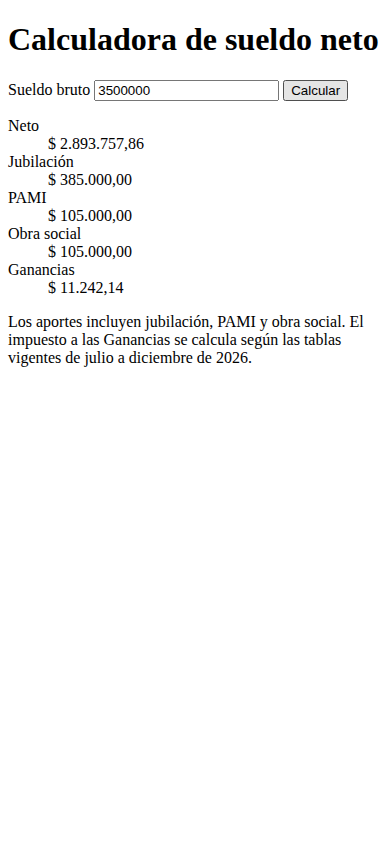
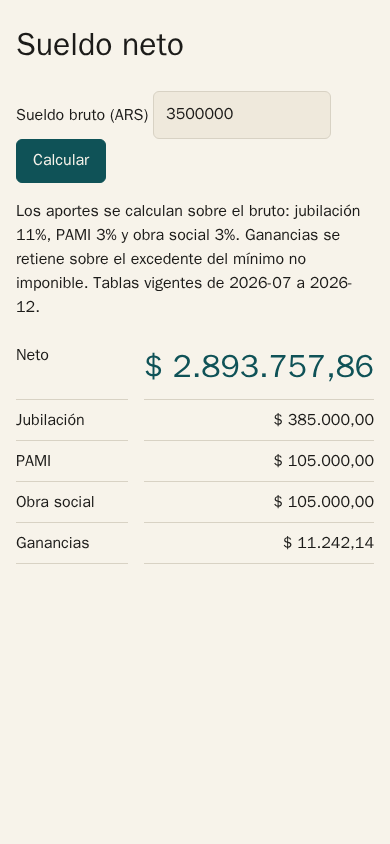
builder-e2e: F2 rearmado con validacion y estilos, verde en 4 modulos

diff --git a/.scratch/builder-e2e/map.md b/.scratch/builder-e2e/map.md
@@ -20,7 +20,7 @@ Corrida final tras los seis oks del walkthrough, rearmada con `test_R5` en el co
 | Condición | Estado |
 |---|---|
 | 1. Capa computable verde | Cumplida: 3 módulos built, integración verde (casos ocultos, metamórficas, consola, red, axe, Lighthouse, metadatos). |
-| 2. Dos paradas y menos de 1 h del usuario | Parada 1 hecha (walkthrough), sin medir. Parada 2 rechazada en 5 min (preview). `python -m mmorch.builder parada` mide las paradas desde 2026-10-16. |
+| 2. Dos paradas y menos de 1 h del usuario | Parada 1 hecha (walkthrough), sin medir. Parada 2 rechazada en 5 min (preview); segunda vuelta abierta el 2026-10-16. `python -m mmorch.builder parada` mide las paradas desde 2026-10-16. |
 | 3. APIs < US$5 | Cumplida: ~US$0,07 de DeepSeek en la corrida rearmada (~US$0,17 en la previa); planner Sonnet ~US$0,16 equiv. de cupo; Haiku US$0,002. |
 | 4. Run-log completo | Coder, rechazos, cupo y USD por módulo sí (`orchestration-gkw` cerrado); horas del usuario desde la parada 2. |
 | 5. Juez en sombra con rúbricas | Texto sí: prefiere prototipo-04 en los dos órdenes, también tras el rearmado con etiquetas; el log no guarda el motivo. Visual no: GLM sin saldo. |
@@ -31,6 +31,9 @@ Hallazgos de la corrida final:
 - El juez detectó un defecto real que la capa computable no exigía: el desglose sin etiquetas. Ya es computable: `test_R5_desglose_con_etiquetas` en el contrato del módulo 3 pasa en prototipo-04 y falla en el sitio final, igual que la opinión del juez.
 - La parada 2 rechazó el sitio rearmado. El usuario escribió 10e100: el sitio lo acepta y el monto desborda la pantalla. El usuario también juzgó el diseño muy básico: el sitio no tiene estilos.
 - Ningún caso oculto probó una entrada absurda, y ningún contrato pide un rango de entrada. El rechazo es el primer defecto que encontró un humano y no la capa computable.
+- La parada 2 pasó a contratos: `test_R6` (entrada validada), el driver prueba entradas inválidas y scroll a 390 px, y `m4-estilos` exige mínimos de diseño. Controles: un sitio que valida pasa; 10e100 sin validar desborda y falla.
+- Rearmar F2 destapó dos defectos del SDLC, ya arreglados con test. El arreglo de compilación reescribía archivos sanos (`62fecfd`). El parser del plan leía notas como archivos (`ad5f4ad`).
+- Cuarto rearmado verde: 4 módulos, 0 rechazos, ~US$0,10 de API, 11 min. El juez de texto ahora prefiere el sitio nuevo en los dos órdenes.
 - El rearmado desde cero con `test_R5` salió verde: m1 Haiku, m2 y m3 DeepSeek, 0 rechazos, 8,5 min. El sitio muestra cada monto con su etiqueta.
 
 ## Notes
